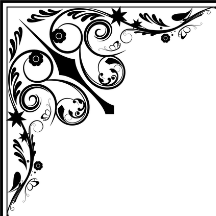
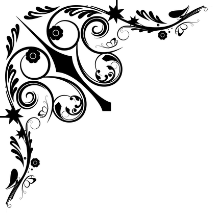
style(mapa): a single frame line, without the thin inner one
The corner ornament now sits inside the border, so the frame line is drawn once.

Changed region(s): [[0.0, 0.0, 1.0, 1.0], [0.4789, 0.4789, 0.5352, 0.5352], [0.1408, 0.1408, 0.169, 0.169]]

diff --git a/css/styles.css b/css/styles.css
@@ -1938,21 +1938,11 @@ html.rsvp-modal-open { overflow: hidden; }
 
 .mapa-frame {
   --frame: #2b2822;
-  --fs: 0.56;                   /* scale of the frame drawing (1 = the 216 px corner at full size) */
+  --fs: 0.56;                   /* scale of the frame drawing (1 = the 213 px corner at full size) */
   position: relative;
   margin: 8px 0 34px;
   border: calc(3px * var(--fs)) solid var(--frame);
   background: var(--paper);
-}
-
-/* the thin second line of the frame, as in the drawing */
-.mapa-frame::after {
-  content: "";
-  position: absolute;
-  inset: calc(4px * var(--fs));
-  border: 1px solid var(--frame);
-  opacity: 0.55;
-  pointer-events: none;
 }
 
 /* Corner ornaments: one drawing (the couple's Victorian frame), mirrored on the four corners and
@@ -1960,12 +1950,12 @@ html.rsvp-modal-open { overflow: hidden; }
 .mapa-corner {
   position: absolute;
   z-index: 2;
-  top: calc(-3px * var(--fs));
-  left: calc(-3px * var(--fs));
-  width: calc(216px * var(--fs));
-  height: calc(216px * var(--fs));
+  top: 0;
+  left: 0;
+  width: calc(213px * var(--fs));
+  height: calc(213px * var(--fs));
   pointer-events: none;
-  background: radial-gradient(circle at 0 0, var(--paper) 0, var(--paper) 52%, transparent 92%);
+  background: radial-gradient(circle calc(213px * var(--fs)) at 0 0, var(--paper) 0, var(--paper) 55%, transparent 100%);
 }
 
 .mapa-corner::after {
@@ -1977,9 +1967,9 @@ html.rsvp-modal-open { overflow: hidden; }
   mask: url('../assets/marco-esquina.png') 0 0 / 100% 100% no-repeat;
 }
 
-.mapa-corner-tr { left: auto; right: calc(-3px * var(--fs)); transform: scaleX(-1); }
-.mapa-corner-bl { top: auto; bottom: calc(-3px * var(--fs)); transform: scaleY(-1); }
-.mapa-corner-br { top: auto; left: auto; right: calc(-3px * var(--fs)); bottom: calc(-3px * var(--fs)); transform: scale(-1, -1); }
+.mapa-corner-tr { left: auto; right: 0; transform: scaleX(-1); }
+.mapa-corner-bl { top: auto; bottom: 0; transform: scaleY(-1); }
+.mapa-corner-br { top: auto; left: auto; right: 0; bottom: 0; transform: scale(-1, -1); }
 
 .mapa-canvas {
   position: relative;
@@ -2184,7 +2174,6 @@ body.mapa-open .lang-toggle { display: none; }
 }
 
 .mapa-section.is-open .mapa-frame { flex: 1; min-height: 0; margin: 0; border: 0; outline: 0; }
-.mapa-section.is-open .mapa-frame::after,
 .mapa-section.is-open .mapa-corner { display: none; }
 .mapa-section.is-open .mapa-plaque { bottom: 12px; }
 .mapa-section.is-open .mapa-canvas { aspect-ratio: auto; height: 100%; touch-action: none; }

diff --git a/index.html b/index.html
@@ -28,7 +28,7 @@
   <link rel="apple-touch-icon" sizes="180x180" href="assets/apple-touch-icon.png">
 
   <!-- Main Stylesheet. ?v= busts browser caches after each deploy: bump it whenever css/js change -->
-  <link rel="stylesheet" href="css/styles.css?v=20261118c">
+  <link rel="stylesheet" href="css/styles.css?v=20261118d">
 
   <!-- The envelope is the first thing on screen, so fetch its two images early -->
   <link rel="preload" as="image" href="assets/sobre.jpg?v=20261110v">
@@ -296,7 +296,7 @@
         <h2 class="h-script text-center" data-i18n="map.title">El mapa</h2>
         <div class="mapa-shell">
           <div class="mapa-frame">
-            <div class="mapa-canvas" id="mapa-canvas" data-src="assets/mapa.svg?v=20261118c"></div>
+            <div class="mapa-canvas" id="mapa-canvas" data-src="assets/mapa.svg?v=20261118d"></div>
             <!-- the frame's four corner ornaments (assets/marco-esquina.png, mirrored; they let taps through) -->
             <span class="mapa-corner mapa-corner-tl" aria-hidden="true"></span>
             <span class="mapa-corner mapa-corner-tr" aria-hidden="true"></span>
@@ -518,13 +518,13 @@
 
   </main>
 
-  <script src="js/i18n.js?v=20261118c"></script>
-  <script src="js/rsvp-config.js?v=20261118c"></script>
-  <script src="js/script.js?v=20261118c"></script>
-  <script src="js/playlist-config.js?v=20261118c"></script>
-  <script src="js/playlist.js?v=20261118c"></script>
-  <script src="js/mapa.js?v=20261118c"></script>
-  <script src="js/flores-layout.js?v=20261118c"></script>
-  <script src="js/flores.js?v=20261118c"></script>
+  <script src="js/i18n.js?v=20261118d"></script>
+  <script src="js/rsvp-config.js?v=20261118d"></script>
+  <script src="js/script.js?v=20261118d"></script>
+  <script src="js/playlist-config.js?v=20261118d"></script>
+  <script src="js/playlist.js?v=20261118d"></script>
+  <script src="js/mapa.js?v=20261118d"></script>
+  <script src="js/flores-layout.js?v=20261118d"></script>
+  <script src="js/flores.js?v=20261118d"></script>
 </body>
 </html>

diff --git a/playlist-admin.html b/playlist-admin.html
@@ -46,8 +46,8 @@
   </main>
 
   <script src="https://cdnjs.cloudflare.com/ajax/libs/xlsx/0.18.5/xlsx.full.min.js"></script>
-  <script src="js/playlist-config.js?v=20261118c"></script>
-  <script src="js/playlist.js?v=20261118c"></script>
+  <script src="js/playlist-config.js?v=20261118d"></script>
+  <script src="js/playlist.js?v=20261118d"></script>
   <script>
     (function () {
       'use strict';
